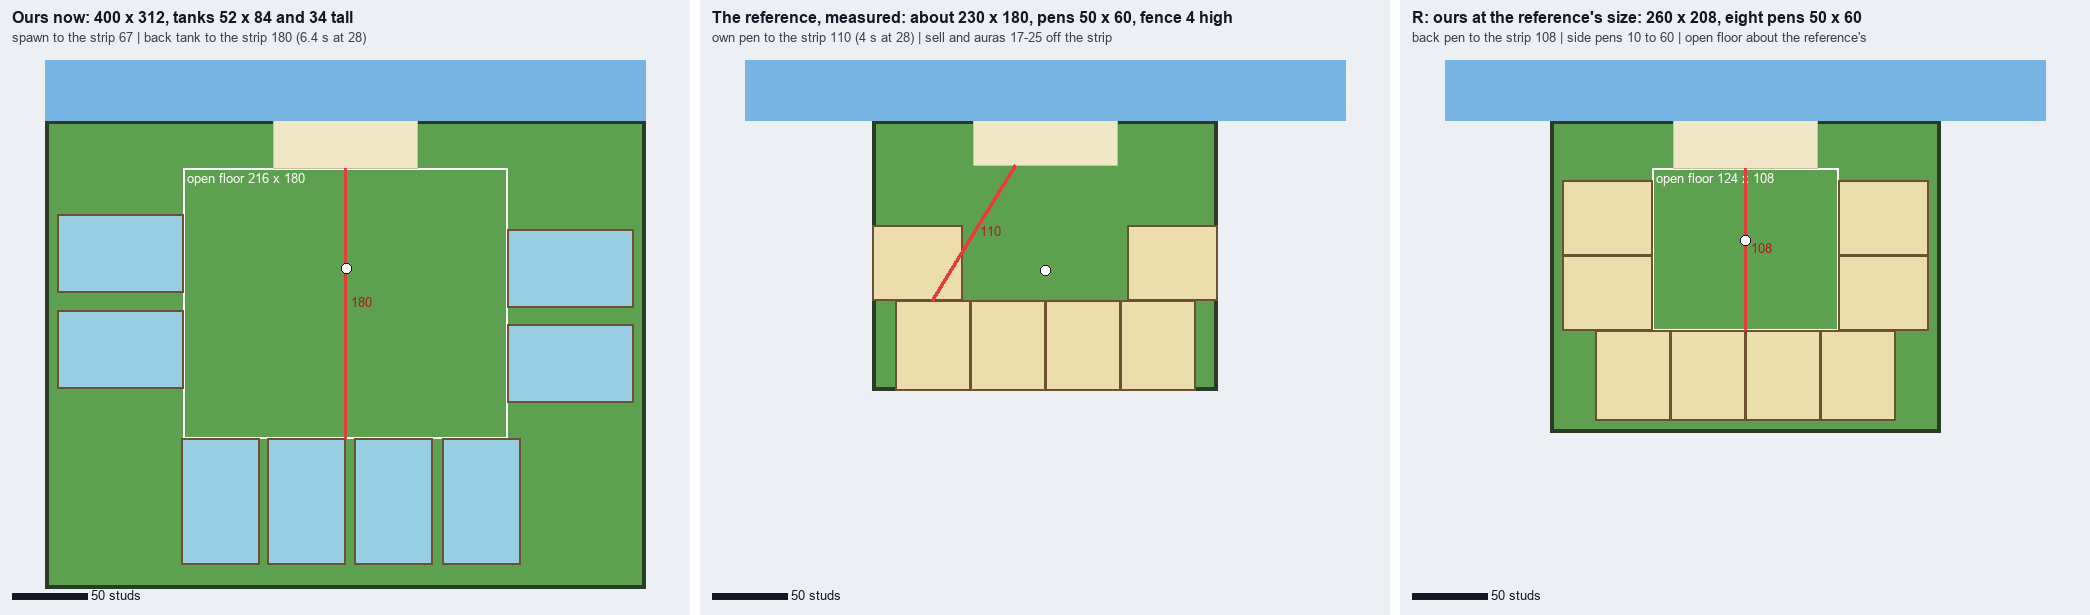
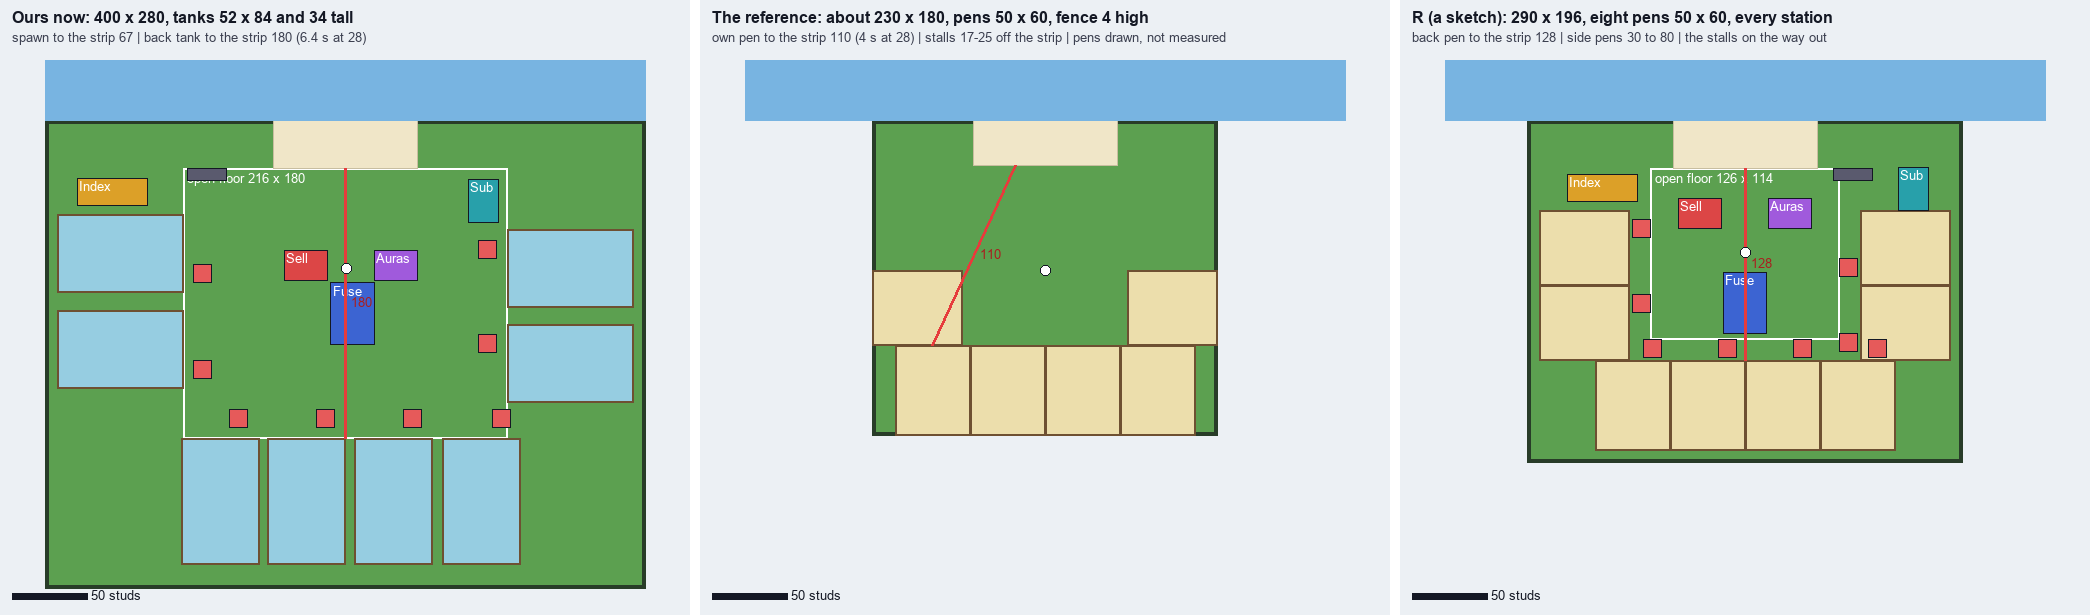
Hub review 2 fix-ups: sizes like for like, R as a sketch with every station, fish at game size in the pens, post in/out jitter, hand-move diff result, buttons not yet run

diff --git a/tools/map/hub_scale_plan.py b/tools/map/hub_scale_plan.py
@@ -22,7 +22,7 @@ except OSError:
     FONT = SMALL = ImageFont.load_default()
 
 
-def panel(title, lines, hub, pens, strip, spawn, walks, open_box, tanks_tall=False):
+def panel(title, lines, hub, pens, strip, spawn, walks, open_box, tanks_tall=False, things=()):
     """hub: (x0, x1, z0, z1) with the strip's edge at z1; pens: (x0, x1, z0, z1) boxes; walks: ((x, z), (x, z), label)"""
     im = Image.new("RGB", (int(PANEL_W), int(PANEL_H)), (236, 240, 244))
     d = ImageDraw.Draw(im)
@@ -39,6 +39,10 @@ def panel(title, lines, hub, pens, strip, spawn, walks, open_box, tanks_tall=Fal
         d.text((p(a, e)[0] + 4, p(a, e)[1] + 3), f"open floor {b - a:.0f} x {e - c:.0f}", fill=OPEN, font=SMALL)
     for a, b, c, e in pens:
         d.rectangle([p(a, e), p(b, c)], fill=WATER if tanks_tall else PEN, outline=(110, 80, 50), width=2)
+    for tx, tz, tw, td, label, colour in things:
+        d.rectangle([p(tx - tw / 2, tz + td / 2), p(tx + tw / 2, tz - td / 2)], fill=colour, outline=INK)
+        if label:
+            d.text((p(tx - tw / 2, tz + td / 2)[0] + 2, p(tx - tw / 2, tz + td / 2)[1] + 1), label, fill=(255, 255, 255), font=SMALL)
     sx0, sx1, sz0, sz1 = strip
     d.rectangle([p(sx0, sz1), p(sx1, sz0)], fill=STRIP, outline=(200, 190, 160))
     d.rectangle([p(-200, 40), p(200, sz1)], fill=(120, 180, 225))
@@ -58,27 +62,45 @@ def panel(title, lines, hub, pens, strip, spawn, walks, open_box, tanks_tall=Fal
     return im
 
 
-# ours, as read from the place (2026-11-22); z measured from the hub's front edge (the place's z = 0)
+# ours, as read from the place (2026-11-22); z measured from the hub's front edge (the place's z = 0). Sizes are
+# wall to wall: across, and from the strip's inner edge (z -32) to the back wall
+RED, PURPLE, BLUE, TEAL, GOLD, GREY, PAD = (220, 70, 70), (160, 90, 220), (60, 100, 210), (40, 160, 170), (220, 160, 40), (90, 90, 110), (230, 90, 90)
+
+
+def stations(sell, auras, fuse, index, sub, earners):
+    return [(sell[0], sell[1], 29, 20, "Sell", RED), (auras[0], auras[1], 29, 20, "Auras", PURPLE),
+            (fuse[0], fuse[1], 29, 41, "Fuse", BLUE), (index[0], index[1], 47, 18, "Index", GOLD),
+            (sub[0], sub[1], 20, 29, "Sub", TEAL), (earners[0], earners[1], 26, 8, "", GREY)]
+
+
+def trainers(points):
+    return [(x, z, 12, 12, "", PAD) for x, z in points]
+
+
 ours_tanks = [(-109, -57, -296, -212), (-52, 0, -296, -212), (6, 58, -296, -212), (65, 117, -296, -212),
               (-192, -108, -179, -127), (-192, -108, -115, -63), (108, 192, -188, -136), (108, 192, -125, -73)]
-now = panel("Ours now: 400 x 312, tanks 52 x 84 and 34 tall",
+now = panel("Ours now: 400 x 280, tanks 52 x 84 and 34 tall",
             "spawn to the strip 67 | back tank to the strip 180 (6.4 s at 28)",
             (-200, 200, -312, 0), ours_tanks, (-48, 48, -32, 0), (1, -99), [((0, -212), (0, -32), "180")],
-            (-108, 108, -212, -32), tanks_tall=True)
-# the reference's, measured: about 230 by 180, pens 50 by 60 in a U sharing fences, the strip 96 wide
-ref_pens = [(-100, -50, -180, -120), (-50, 0, -180, -120), (0, 50, -180, -120), (50, 100, -180, -120),
-            (-115, -55, -120, -70), (55, 115, -120, -70)]
-ref = panel("The reference, measured: about 230 x 180, pens 50 x 60, fence 4 high",
-            "own pen to the strip 110 (4 s at 28) | sell and auras 17-25 off the strip",
-            (-115, 115, -180, 0), ref_pens, (-48, 48, -30, 0), (0, -100), [((-75, -120), (-20, -30), "110")],
+            (-108, 108, -212, -32), tanks_tall=True,
+            things=stations((-26, -97), (34, -97), (5, -129), (-155, -48), (92, -54), (-92, -36))
+            + trainers([(-71, -199), (-13, -199), (45, -199), (104, -199), (-95, -166), (-95, -102), (95, -149), (95, -86)]))
+# the reference's: about 230 by 180 (measured, good to 15%); its pens' count and places are drawn, not measured
+ref_pens = [(-100, -50, -210, -150), (-50, 0, -210, -150), (0, 50, -210, -150), (50, 100, -210, -150),
+            (-115, -55, -150, -100), (55, 115, -150, -100)]
+ref = panel("The reference: about 230 x 180, pens 50 x 60, fence 4 high",
+            "own pen to the strip 110 (4 s at 28) | stalls 17-25 off the strip | pens drawn, not measured",
+            (-115, 115, -210, 0), ref_pens, (-48, 48, -30, 0), (0, -100), [((-75, -150), (-20, -30), "110")],
             None)
-# R: ours at the reference's size, eight pens of 50 by 60 in a U
-r_pens = [(-100, -50, -200, -140), (-50, 0, -200, -140), (0, 50, -200, -140), (50, 100, -200, -140),
-          (-122, -62, -140, -90), (-122, -62, -90, -40), (62, 122, -140, -90), (62, 122, -90, -40)]
-r = panel("R: ours at the reference's size: 260 x 208, eight pens 50 x 60",
-          "back pen to the strip 108 | side pens 10 to 60 | open floor about the reference's",
-          (-130, 130, -208, 0), r_pens, (-48, 48, -32, 0), (0, -80), [((0, -140), (0, -32), "108")],
-          (-62, 62, -140, -32))
+# R: ours at about the reference's size with all eight pens and every station: 290 x 196
+r_pens = [(-100, -50, -220, -160), (-50, 0, -220, -160), (0, 50, -220, -160), (50, 100, -220, -160),
+          (-137, -77, -160, -110), (-137, -77, -110, -60), (77, 137, -160, -110), (77, 137, -110, -60)]
+r = panel("R (a sketch): 290 x 196, eight pens 50 x 60, every station",
+          "back pen to the strip 128 | side pens 30 to 80 | the stalls on the way out",
+          (-145, 145, -228, 0), r_pens, (-48, 48, -32, 0), (0, -88), [((0, -160), (0, -32), "128")],
+          (-63, 63, -146, -32),
+          things=stations((-30, -62), (30, -62), (0, -122), (-95, -45), (112, -46), (72, -36))
+          + trainers([(-62, -152), (-12, -152), (38, -152), (88, -152), (-69, -122), (-69, -72), (69, -148), (69, -98)]))
 sheet = Image.new("RGB", (int(PANEL_W) * 3 + 20, int(PANEL_H)), (255, 255, 255))
 for i, im in enumerate((now, ref, r)):
     sheet.paste(im, (i * (int(PANEL_W) + 10), 0))

diff --git a/tools/map/pen_bench.py b/tools/map/pen_bench.py
@@ -13,6 +13,7 @@ fences, as the reference's are. Only for pictures: not in the game yet.
 usage: python tools/map/pen_bench.py      writes art/map/greybox/hub_pens.json (model Pens/Row) for
        HUB_JSON=hub_pens.json blender --background --python tools/blender/hub_view.py -- Pens/Row <out> <shot>..."""
 import json
+import math
 import os
 import random
 import sys
@@ -56,6 +57,10 @@ def along(k, a, b, gate=None):
         if gate and gate[0] < s < gate[1]:
             tops.append(None)
             continue
+        ox, oz = (b[1] - a[1]), -(b[0] - a[0])  # across the line
+        n_ = math.hypot(ox, oz) or 1.0
+        off = rng.uniform(-0.45, 0.45)
+        x, z = x + ox / n_ * off, z + oz / n_ * off
         tops.append((x, z, post(k, x, z)))
     for i in range(len(tops) - 1):
         p, q = tops[i], tops[i + 1]
@@ -80,10 +85,7 @@ def p1_pool(k, x0, x1, z0, z1):
     # the pool: its brim the plate's top, a dark bed under clear water
     k.box((x0 + x1) / 2, PLATE - 2.2, (z0 + z1) / 2, x1 - x0 - 8, 0.4, z1 - z0 - 8, POOL_BED, n="PoolBed")
     k.box((x0 + x1) / 2, PLATE - 2.0, (z0 + z1) / 2, x1 - x0 - 8, 1.7, z1 - z0 - 8, POOL, n="PoolWater", t=0.45)
-    cx, cz = (x0 + x1) / 2, (z0 + z1) / 2
-    k.fish("Archelon", cx - 6, PLATE + 4, cz - 4, 0.8, yaw=30)
-    k.fish("Barracuda", cx + 10, PLATE + 6, cz + 8, 1.2, yaw=-60)
-    k.fish("Clownfish", cx - 12, PLATE + 3, cz + 14, 0.9, yaw=90)
+    game_fish(k, x0, x1, z0, z1, 0.5)
 
 
 def p2_rail(k, x0, x1, z0, z1):
@@ -91,10 +93,7 @@ def p2_rail(k, x0, x1, z0, z1):
     top = PLATE + RAILS[1] + 0.4
     k.box((x0 + x1) / 2, PLATE, (z0 + z1) / 2, x1 - x0 - 1.4, top - PLATE, z1 - z0 - 1.4, POOL, n="PenWater", t=0.55)
     k.box((x0 + x1) / 2, top - 0.1, (z0 + z1) / 2, x1 - x0 - 1.2, 0.15, z1 - z0 - 1.2, WHITE, n="FoamLine", t=0.35)
-    cx, cz = (x0 + x1) / 2, (z0 + z1) / 2
-    k.fish("Archelon", cx + 4, PLATE + 3.5, cz - 6, 0.8, yaw=-30)
-    k.fish("Barracuda", cx - 10, PLATE + 4, cz + 6, 1.2, yaw=50)
-    k.fish("Clownfish", cx + 12, PLATE + 2.5, cz + 14, 0.9, yaw=-90)
+    game_fish(k, x0, x1, z0, z1, 0.5)
 
 
 def p3_sand(k, x0, x1, z0, z1):
@@ -103,10 +102,20 @@ def p3_sand(k, x0, x1, z0, z1):
     k.box(x1 - 8, PLATE, z0 + 7, 4, 3, 4, (150, 152, 166), n="Rock")
     k.box(x1 - 9, PLATE + 3, z0 + 6, 2.4, 6, 0.8, PINK, roll=8, n="Coral")
     k.box(x0 + 6, PLATE, z1 - 10, 1.2, 7, 1.2, KELP, roll=-6, n="Kelp")
-    cx, cz = (x0 + x1) / 2, (z0 + z1) / 2
-    k.fish("Archelon", cx - 2, PLATE + 7, cz, 0.8, yaw=15)
-    k.fish("Barracuda", cx + 9, PLATE + 9, cz + 10, 1.2, yaw=-70)
-    k.fish("Clownfish", cx - 12, PLATE + 5, cz + 12, 0.9, yaw=80)
+    game_fish(k, x0, x1, z0, z1, 4.0)
+
+
+GAME_FISH = [("Archelon", 50, 0.9), ("Barracuda", 30, 0.5), ("MantaRay", 24, 0.4), ("Dunkleosteus", 40, 0.6),
+             ("Clownfish", 12, 0.3), ("Angelfish", 16, 0.35), ("Boxfish", 14, 0.3)]  # name, length, height share
+GLB_LONG = {"Archelon": 20.7, "Barracuda": 9.0, "MantaRay": 11.2, "Dunkleosteus": 12.1, "Clownfish": 7.6, "Angelfish": 7.8, "Boxfish": 6.4}
+
+
+def game_fish(k, x0, x1, z0, z1, lift):
+    """seven fish at about the game's sizes (Aquarium.ShowShare 1: a tank's fish are drawn their real size)"""
+    spots = [(0.3, 0.35), (0.7, 0.3), (0.25, 0.75), (0.65, 0.7), (0.15, 0.15), (0.85, 0.85), (0.5, 0.55)]
+    for (name, long, high), (u, v) in zip(GAME_FISH, spots):
+        k.fish(name, x0 + (x1 - x0) * u, PLATE + lift + long * high * 0.5, z0 + (z1 - z0) * v, long / GLB_LONG[name],
+               yaw=rng.uniform(-180, 180))
 
 
 def build():

diff --git a/docs/design/hub-review-2.md b/docs/design/hub-review-2.md
@@ -11,8 +11,11 @@ tell me other things we could do for the water".
 
 ## What was read
 - **The hub as it stands:** every part in its box was read from the place on 2026-11-22
-  (`art/map/hub_study/dump_2026-11-22.csv`, by `tools/studio/hub_dump.luau`). **Nothing has been moved by hand since
-  2026-11-20** apart from the W32 shift: every model sits where the W32 rebuild put it.
+  (`art/map/hub_study/dump_2026-11-22.csv`, by `tools/studio/hub_dump.luau`). Compared part by part with the W32
+  build, **no hand moves were found** in the hub: the changes are from code (the collect pads gone, upgrade signs on
+  the tanks). If something was changed by hand, it is outside the hub's box or was put back; the user to say what.
+- **Also found:** `Workspace.FarView` is gone; its parts now sit in folders `Part1` to `Part4` (z 1295 to 10022).
+  `CosmicHollowDisplay` stands just outside the hub's right wall (x 3355, z -166).
 - **The reference:** our measured reading ([ride-a-dino-map](../reference/ride-a-dino-map.md), "The hub, measured",
   good to about 15%) and the frame of its pens (`research/ride-a-dino/map/H1.jpg`, private).
 
@@ -21,8 +24,8 @@ tell me other things we could do for the water".
 | | Ours | The reference | So |
 |---|---|---|---|
 | **Walk speed** | 28 (`Config.Dock.WalkSpeed`) | 28, measured | **Not the cause** |
-| **The hub** | 400 x 312; the open floor between the tank fronts alone is **216 x 180** | about **230 x 180, pens included** | **The main cause.** Our open floor is the size of their whole hub. Every walk is long: back tank to the strip 180 studs (6.4 s) against their 110 (4 s) |
-| **The pens** | 52 x 84 of water, **34 tall** (posts 34) | 50 x 60, **fence 4 high** | The footprint is close; the height is not. Eight 34-stud boxes make the hub read as a room of buildings |
+| **The hub** | 400 x 280 wall to wall (the floor part is 400 x 312, under the strip too); the open floor between the tank fronts alone is **216 x 180** | about **230 x 180** wall to wall, pens included | **The main cause.** Our open floor is the size of their whole hub. Every walk is long: back tank to the strip 180 studs (6.4 s) against their 110 (4 s) |
+| **The pens** | 52 x 84 of water, **34 tall** (posts 34) | about 50 x 60 (drawn from frames, not measured), **fence 4 high** | The footprint is close; the height is not. Eight 34-stud boxes make the hub read as a room of buildings |
 | **The studs** | one every **1.0** stud, on an 8-stud checker | one every **0.64**, no checker on the hub floor | Ours are 1.56 times bigger. At the same speed the ground slides past 1.56 times slower in studs, so running *looks* slower and the world bigger |
 | Camera | not measured | not measured | One capture framed like H1 would settle it |
 
@@ -42,8 +45,20 @@ gate, no roof, no glass. The user: posts "slightly offset with each other, sligh
 
 Drawn by `tools/map/pen_bench.py` and `tools/blender/hub_view.py` (Blender: no studs, a stand-in light; its see-through
 water is far more solid than Roblox's). Each pen is 50 x 60, the fence 4.4 high, posts 10 apart, each leaning up to 8
-degrees with its height off by up to 0.35; the rails run between the posts' own points, so they tilt with them. The pens
-share fences.
+degrees, off height by up to 0.35 and off the line by up to 0.45 in or out; the rails run between the posts' own
+points, so they tilt with them. The pens share fences.
+
+**The fish at game size** (`Aquarium.ShowShare` 1: a tank shows its fish at their real length, 12 to 50 studs here):
+
+![the same pens with seven fish each at game size](../attachments/hub-pens-game.png)
+
+**Crowded, as the reference's are.** A 50-stud Archelon is as long as the pen, and seven fish of 12 to 50 hide the
+fence. The reference's pens are crowded the same way (H1: a Brachiosaurus or a Baryonyx is as long as its pen and
+stands far over the 4-stud fence), so big creatures over a low fence is the genre's look, not a fault. What differs:
+theirs **stand on the sand**, side by side, each one's outline clear; ours float at mixed heights over each other and
+read as one heap. So in a pen, fish would sit low (just over the sand or the pool), spread along the pen, and the
+biggest at the back. If it is still too much: fewer on show per pen, or a slightly smaller `ShowShare`. Both are the
+fish-code chat's numbers.
 
 | | What it is | For | Against |
 |---|---|---|---|
@@ -52,16 +67,22 @@ share fences.
 | **P3 a sand pen** (right) | sand, one small pool in a corner; the fish swim in the air over the sand | The reference's own idea: creatures stand in their pen. Every fish reads | A fish out of water. Fine in this genre's look, but the user's call |
 
 **What the game code leans on** (`AquariumService`, `TankRideService`, `AquariumController`, `TankPanel`):
-- `TankWater` is the space the fish swim in and you ride in. It can stay as an unseen box over the pen, so nothing in
-  the game code changes. Fish are already drawn at their real size and pass through the glass today.
+To confirm with the fish-code chat before any of it goes in; as far as the map chat can see:
+- `TankWater` is the space the fish swim in and you ride in. It could stay as an unseen box over the pen, so the swim
+  and the ride would not change.
+- The pens as drawn have no `SignBoard`, `TrainerSpot` or `TankSurface`/rims, which the code looks for (`LIFTED`), and
+  the panel draws the whole tank's outline. Those parts need a place in a pen, or the code a way round them.
+- How many fish a pen shows, and at what share of their size (above).
 - `Post` and `TankWater` are stretched by the tank's level (`STRETCHED`). The fence posts are named `FencePost` so a level
   doesn't grow them. **Levels** become richer rather than taller: the fence wood, then painted, then stone; a gate arch;
-  more inside. That is a note for the game-code chat before any of it goes in.
+  more inside.
 
 ## 3. Layout, and where the eye goes
-**R** (right in the plans): ours at the reference's size, 260 x 208. Eight pens of 50 x 60 in a U, sharing fences:
-four along the back and two down each side, open toward the strip. Back pen to strip 108 (theirs 110), side pens 10 to 60,
-and an open floor of about 124 x 108.
+**R** (right in the plans, **a sketch**): 290 x 196 wall to wall, against ours 400 x 280 and theirs about 230 x 180.
+Eight pens of 50 x 60 in a U, sharing fences: four along the back and two down each side, open toward the strip. Every
+station and trainer pad is drawn in and fits, if tightly. Back pen to the strip 128 (ours 180, theirs about 110), the
+side pens 30 to 80, an open floor of about 126 x 114. Going right down to their 230 x 180 does not fit eight pens and
+all our stations; it would need fewer pens on show or the stations moved into the walls.
 
 For attention, following the reference:
 - **The spawn on the line from the pens to the strip**, facing the strip. The strip, the gap and the herd beyond it are
@@ -73,6 +94,7 @@ For attention, following the reference:
   the strip's two ends.
 
 **Cost:** the hub's walls come from the generator, so R is one full map reload, which also re-scatters some lane props.
+Before that, a hub-only try build (the generator's hub options) would show the walls at R's size without the reload.
 Pens, layout and size should be picked together and built in that one reload. The hand placing is read first and kept.
 
 **To confirm with the user:** CLAUDE.md's rule is "copy the loop and the feel, never its look, models or layout". The ask
@@ -83,7 +105,8 @@ The surface is four layers (`tools/map/water_look.luau`): white Glass on top (0.
 dark layer (0.78) and a deep blue (0.85). Together they let through about **18%**. The glass on top blocks the most.
 
 `tools/studio/water_see_buttons.luau` puts a row of buttons on the screen in Play (run it on the Client). Each button sets
-the four layers live, so you can switch between them while looking at the herd. Nothing is saved.
+the four layers live, so you can switch between them while looking at the herd. Nothing is saved. **Not run yet:** it
+needs the user in Play and Studio handed to the map chat (the UI chat has it now).
 
 | | Foam, Water, Dark, Deep | Lets through |
 |---|---|---|
